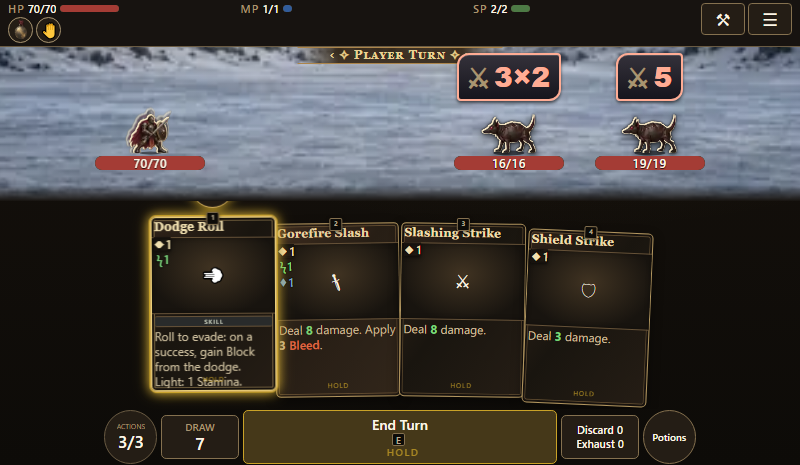
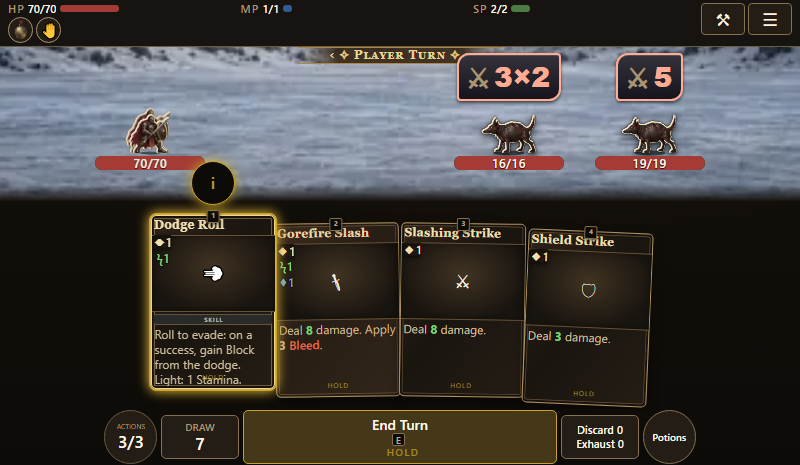
Record Information-only card controls and repair their browser probe

diff --git a/src/ui/components/card.js b/src/ui/components/card.js
@@ -221,9 +221,9 @@ export function renderCard(registries, ref, opts = {}) {
     // reader would announce a field the player cannot see.
     const body = region('type', `<div class="ctype">${esc(model.type.label)}</div>`)
       + region('effects', `<div class="ctext cd-text">${fillTemplate(def, model.tokens, model.baseTokens)}</div>`);
-    // The information button and the chevron are children of the card that
-    // `bindCardInspection` appended with their own listeners; a repaint must
-    // hand them back rather than take them away.
+    // The information button is a child of the card that
+    // `bindCardInspection` appended with its own listeners; a repaint must
+    // hand it back rather than take it away.
     // WHAT A REPAINT MAY DESTROY IS WHAT IT DREW, AND NOTHING ELSE.
     //
     // This kept a NAMED PAIR — the `i` and the chevron — on the premise that
@@ -399,7 +399,7 @@ export function renderCard(registries, ref, opts = {}) {
  *   data-name      long | verylong  — the name stepped its type down to stay one line
  *   data-tag-rows  0 | 1 | 2        — rows the tags took; text gets the rest
  *   data-tags-hidden n              — tags deferred past the second row (+n)
- *   data-truncated true             — both were full; the face carries the chevron
+ *   data-truncated true             — both were full; Information has the full text
  */
 const pendingFits = new Set();
 let fitFrame = 0;

diff --git a/src/content/changelog.generated.js b/src/content/changelog.generated.js
@@ -3,6 +3,16 @@
 
 export const GENERATED_CHANGELOG = Object.freeze([
   {
+    "id": "pr-1511",
+    "date": "2026-10-02",
+    "group": "2026-10-02",
+    "summary": "Cards keep just their Information button for full text",
+    "detail": "Clipped descriptions no longer add a separate arrow box above a combat card or push its title aside. Select the card and use its existing (i) button to read the complete details.",
+    "build": "0.7.1.806",
+    "pullRequest": 1511,
+    "url": "https://github.com/cehinds/AshenSpire/pull/1511"
+  },
+  {
     "id": "pr-1505",
     "date": "2026-10-02",
     "group": "2026-10-02",

diff --git a/CHANGELOG.md b/CHANGELOG.md
@@ -34,6 +34,7 @@ A receipt here names the pull request that landed a change; inventing one to fit
 
 ## 2026-10-02
 
+- **Cards keep just their Information button for full text** ([#1511](https://github.com/cehinds/AshenSpire/pull/1511), `0.7.1.806`). Clipped descriptions no longer add a separate arrow box above a combat card or push its title aside. Select the card and use its existing (i) button to read the complete details.
 - **Behind the scenes: the startup-gate checks run again** ([#1505](https://github.com/cehinds/AshenSpire/pull/1505), `0.7.1.803`). Nothing you play changes. The checks that plant known bugs in a scratch copy of the game did not copy the two files that name the pinned art release. So the copy could not stamp a build, and the checks failed before testing anything.
 - **Behind the scenes: the co-op layout check runs when a build goes to testing** ([#1509](https://github.com/cehinds/AshenSpire/pull/1509), `0.7.1.802`). Nothing you play changes. The automatic check that the co-op screen's top bar fits on phones and desktops now runs each time a build is promoted to testing, instead of on every proposed change, where it kept stalling and holding other changes up.
 - **Behind the scenes: the class balance checker plays the same climbs as the run simulator** ([#1492](https://github.com/cehinds/AshenSpire/pull/1492), `0.7.1.801`). Nothing you play changes. The tool that counts each class's wins used its own older copy of what happens between fights (levels, drafts, rewards, events). Over 500 climbs it reached different fights and got a different result. It now uses the simulator's own steps between fights, agrees with it fight for fight, and its own self-check runs to the end again instead of crashing.
